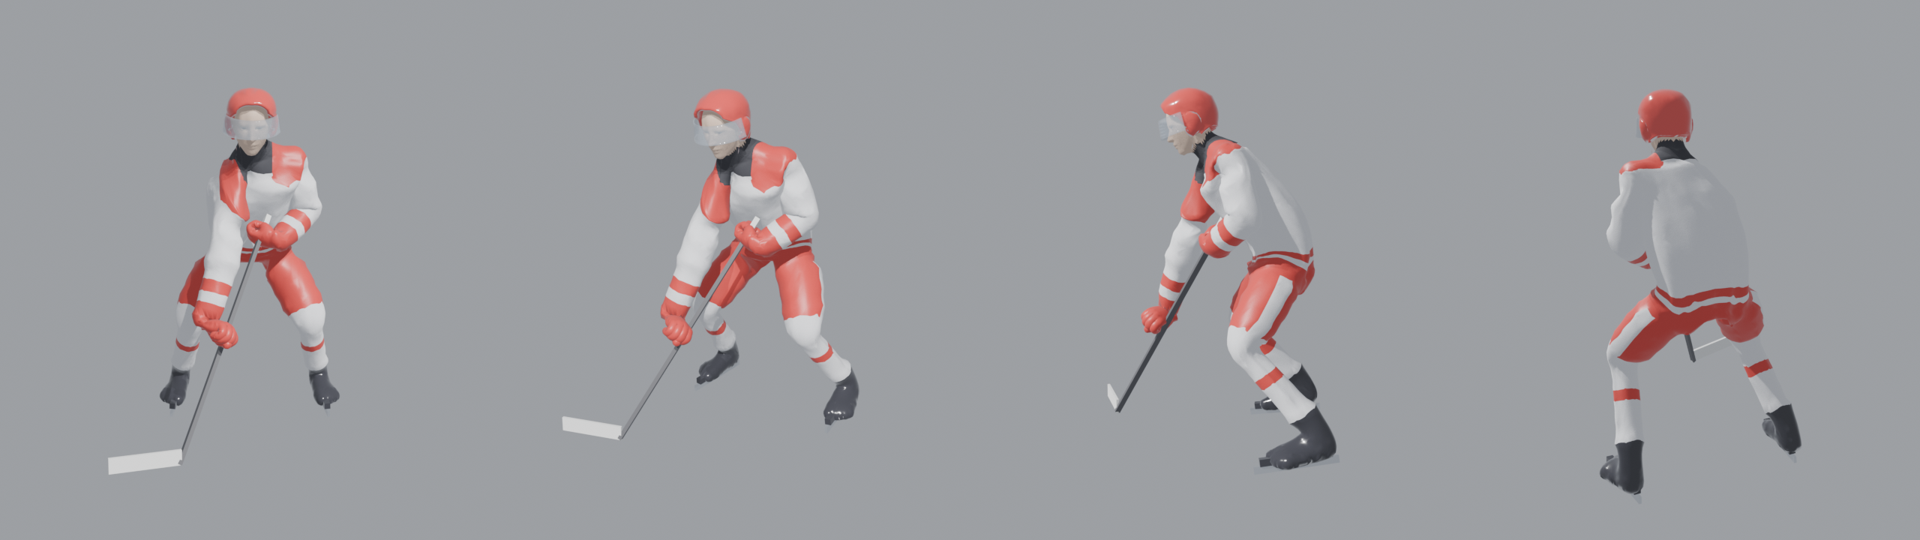
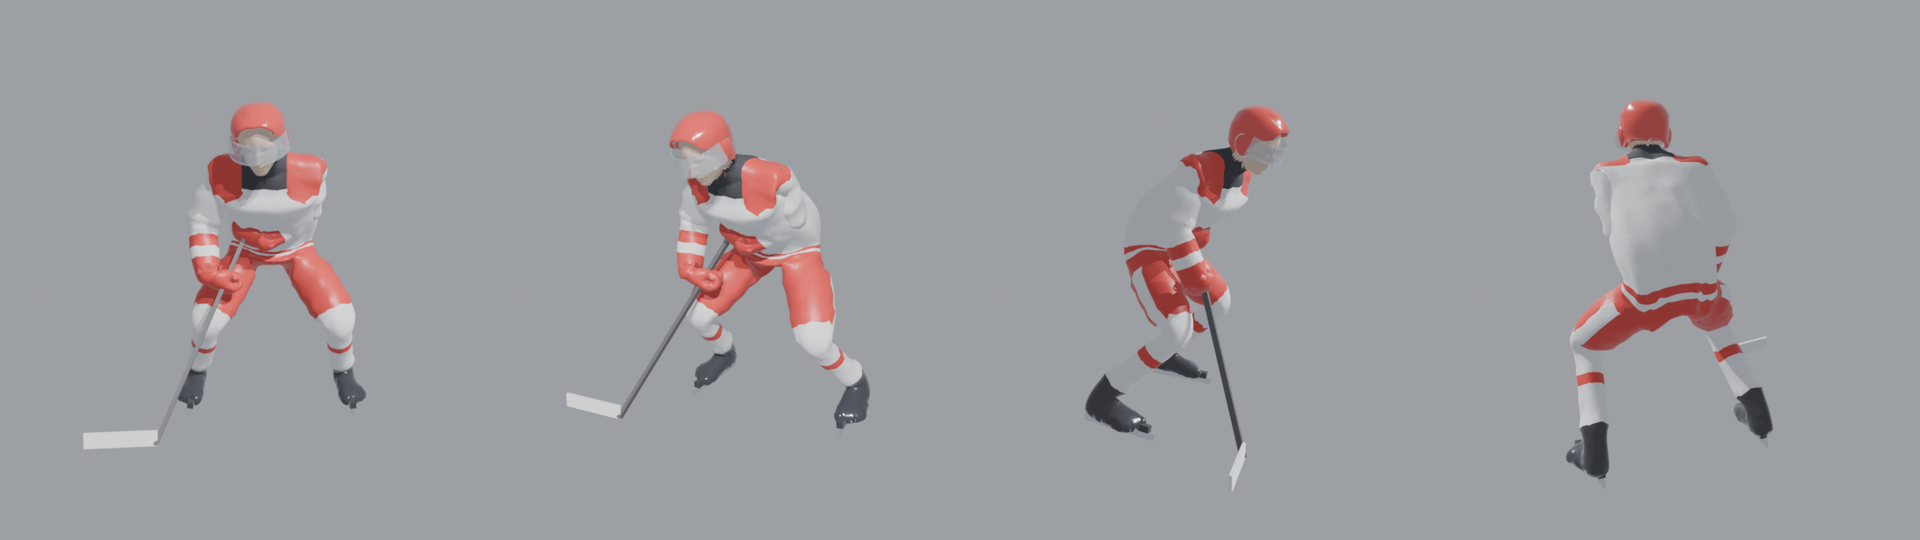
Skater pose: shoulders stay put, elbows bent, lower stance, stick placed within reach

diff --git a/assets/src/skater/pose_ready.py b/assets/src/skater/pose_ready.py
@@ -22,14 +22,15 @@ def rot(name, axis, deg):
 # legs: shoulder-width stance, toes turned out, knees bent over the toes, skates flat on the ice
 for s, side in ((1, 'l'), (-1, 'r')):
     rot('thigh_' + side, 'Y', -s * 16)      # spread the legs (left leg out to +X)
-    rot('thigh_' + side, 'X', -40)          # knee forward
-    rot('calf_' + side, 'X', 66)            # shin back
+    rot('thigh_' + side, 'X', -48)          # knee forward: a low, athletic stance
+    rot('calf_' + side, 'X', 80)            # shin back
     rot('foot_' + side, 'Y', s * 14)        # keep the blade flat after the spread
-    rot('foot_' + side, 'X', -26)
+    rot('foot_' + side, 'X', -32)
     rot('thigh_' + side, 'Z', s * 12)       # toes out
 # torso: lean forward from the hips, chest up, eyes up the ice
 rot('pelvis', 'X', 8)
-rot('spine_01', 'X', 26); rot('spine_02', 'X', 10)
+rot('spine_01', 'X', 36); rot('spine_02', 'X', 12)
+rot('spine_02', 'Z', -10)   # chest turned a little toward the stick side
 rot('neck_01', 'X', -10); rot('Head', 'X', -16)
 vl.update()
 
@@ -42,7 +43,7 @@ arm.location.z -= low; vl.update()
 
 # stick: out in front, blade ahead and a little to the right, shaft at a natural lie angle
 pelvis = arm.matrix_world @ P['pelvis'].matrix.translation
-TOP = pelvis + Vector((0.14, -0.30, 0.12))           # in front of the left hip
+TOP = pelvis + Vector((-0.04, -0.20, 0.12))          # top hand in front of the belly
 HEEL = Vector((pelvis.x - 0.32, pelvis.y - 1.05, 0.035))  # out front, to his right
 for n in ('stick', 'grip_l', 'grip_r', 'pole_l', 'pole_r'):
     x = bpy.data.objects.get(n)
@@ -55,9 +56,9 @@ def empty(name, loc):
 gl = empty('grip_l', TOP + d * 0.06)
 gr = empty('grip_r', TOP + d * (L * 0.46))
 pl = empty('pole_l', pelvis + Vector((0.6, 0.15, 0.45)))
-pr = empty('pole_r', pelvis + Vector((-0.6, 0.1, 0.25)))
+pr = empty('pole_r', pelvis + Vector((-0.6, 0.25, 0.35)))   # elbow out and back
 for side, g, pole in (('l', gl, pl), ('r', gr, pr)):
-    c = P['lowerarm_' + side].constraints.new('IK'); c.target = g; c.chain_count = 3 if side == 'r' else 2
+    c = P['lowerarm_' + side].constraints.new('IK'); c.target = g; c.chain_count = 2   # shoulders stay in place; only the arms reach
     c.pole_target = pole; c.pole_angle = math.radians(-90)
 vl.update()
 
@@ -83,14 +84,14 @@ def align_hand(side, d):
     o = Mw.translation
     Mw2 = Matrix.Translation(o) @ x.rotation_difference(tgt).to_matrix().to_4x4() @ Matrix.Translation(-o) @ Mw
     pb.matrix = arm.matrix_world.inverted() @ Mw2; vl.update()
-HEEL = Vector((pelvis.x - 0.30, pelvis.y - 0.82, 0.035))
+HEEL = Vector((pelvis.x - 0.50, pelvis.y - 0.60, 0.035))   # blade out to his right, so the bottom hand can reach with a bent elbow
 for _ in range(3):
     pt = palm('l'); d = (HEEL - pt).normalized(); align_hand('l', d)
 pt = palm('l'); d = (HEEL - pt).normalized(); Ls = (HEEL - pt).length
 S = arm.matrix_world @ P['upperarm_r'].matrix.translation
-reach = (arm.data.bones['upperarm_r'].length + arm.data.bones['lowerarm_r'].length) * 0.97 + 0.07 + 0.1  # the shoulder drops toward the stick
+reach = (arm.data.bones['upperarm_r'].length + arm.data.bones['lowerarm_r'].length) * 0.86 + 0.07  # keep the elbow bent
 best = 0.25
-for k in range(26, 75):
+for k in range(15, 75):
     t = Ls * k / 100
     if (pt + d * t - S).length <= reach: best = t
 goal = pt + d * best
